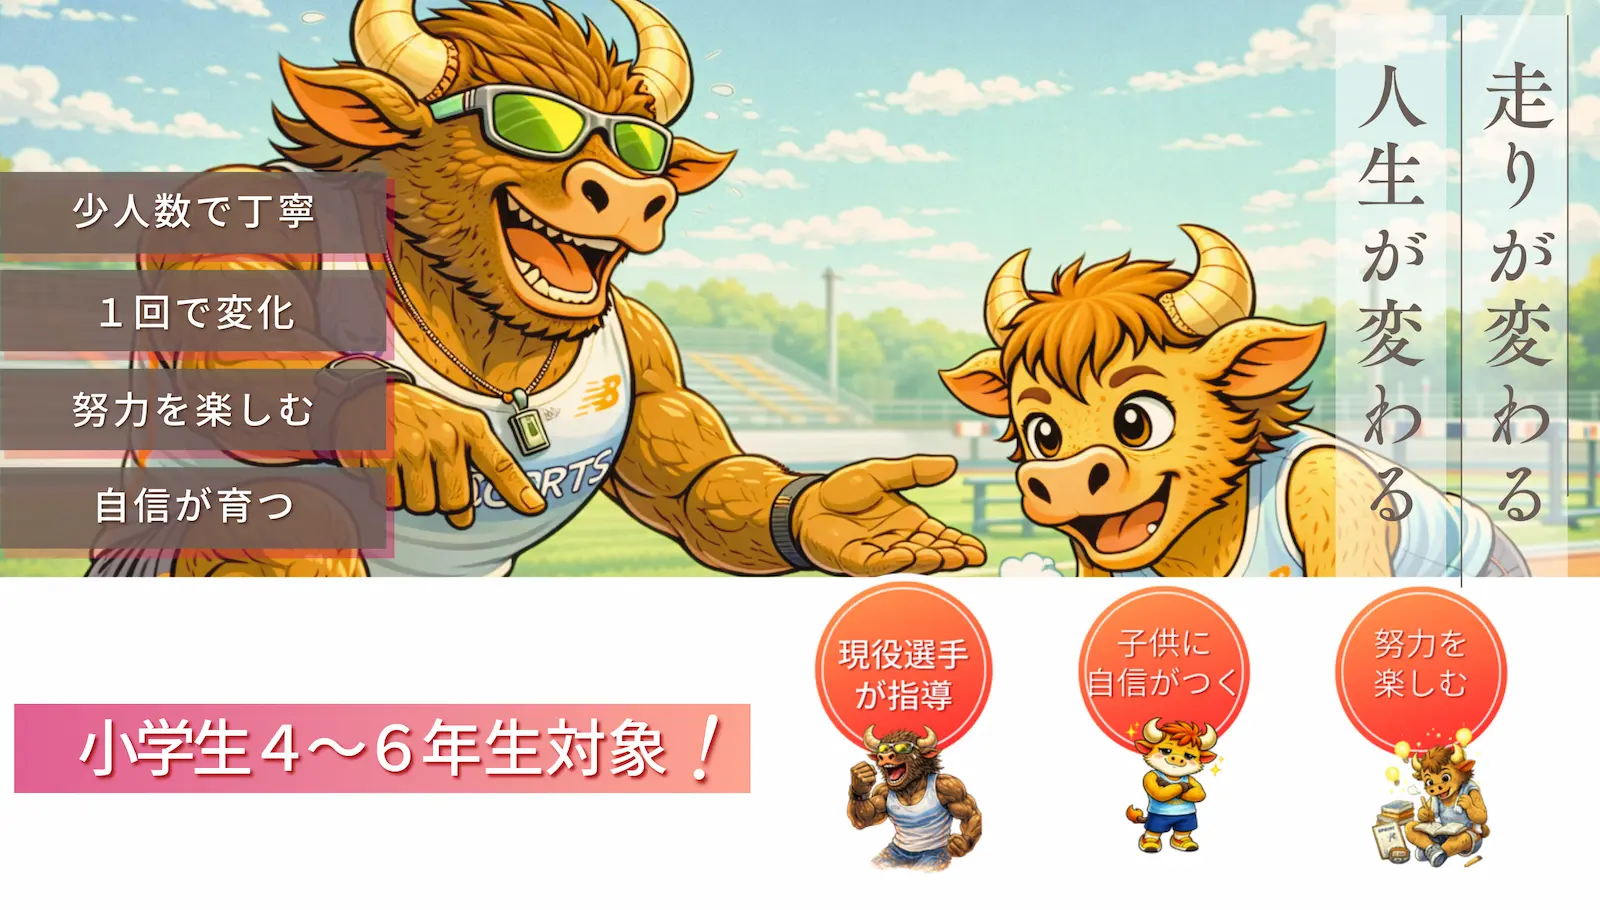
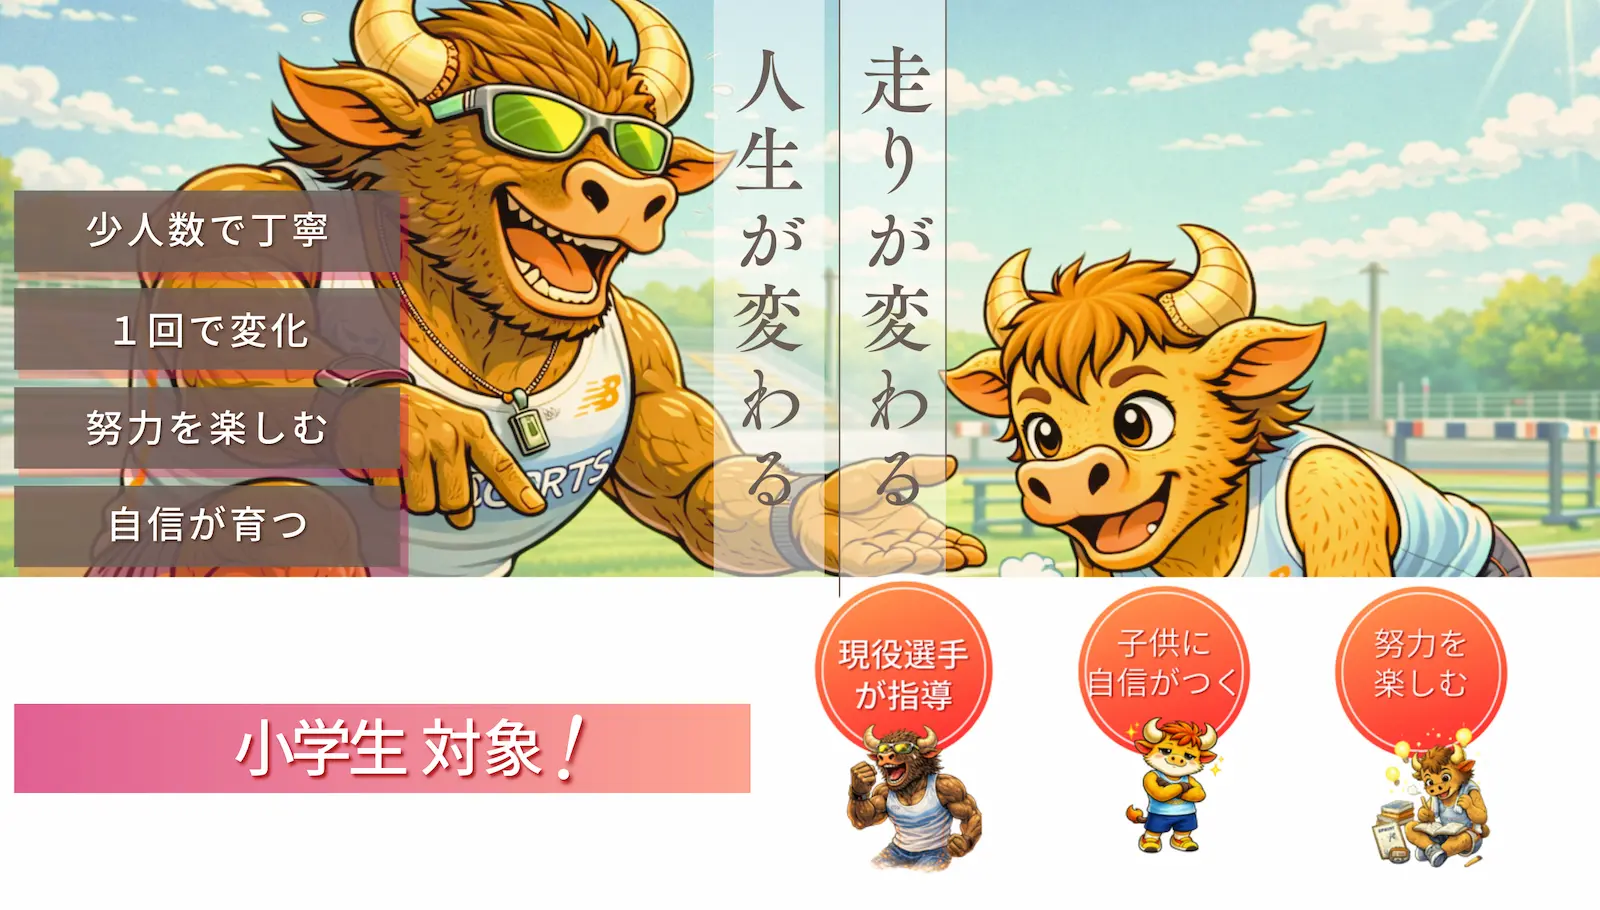
費用入力

diff --git a/2302/index.html b/2302/index.html
@@ -3,8 +3,8 @@
 <head>
   <meta charset="utf-8" />
   <meta name="viewport" content="width=device-width, initial-scale=1" />
-  <title>【2/23限定】小学生向けスプリント特化・単発陸上教室｜SiegSports</title>
-  <meta name="description" content="2月23日（祝）限定。元日本代表選手が多数在籍する社会人陸上チームSiegSportsが直接指導する小学生向け単発スプリント教室。定員10名、先着順。" />
+  <title>【3/25限定】小学生向けスプリント特化・単発陸上教室｜SiegSports</title>
+  <meta name="description" content="3月25日（水）限定。元日本代表選手が多数在籍する社会人陸上チームSiegSportsが直接指導する小学生向け単発スプリント教室。定員10名、先着順。" />
   <link rel="stylesheet" href="/2302/23day-style.css">
   
   <meta name="google-site-verification" content="tDmWG5vccQVcA6zoeox6R_8R96zfi1HmwjNaDQ4GcxY" />
@@ -47,7 +47,7 @@
       <div class="topbar__inner">
         <div class="brand brand--menu" id="brandMenuBtn">
           <div class="brand__badge" aria-hidden="true"></div>
-          <div>SiegSports｜2/23 単発陸上教室</div>
+          <div>SiegSports｜3/25 単発陸上教室</div>
         </div>
         <nav class="nav" aria-label="ページ内メニュー">
           <a href="#benefits">得られること</a>
@@ -77,7 +77,7 @@
       <!-- PC（例：768px以上） -->
       <source media="(min-width: 768px)" srcset="/2302/imge/pc1.webp">
       <!-- スマホ（デフォルト） -->
-      <img src="/2302/imge/top1.webp" alt="2/23単発陸上教室の告知" >
+      <img src="/2302/imge/top1.webp" alt="3/25単発陸上教室の告知" >
     </picture>
     
     <!-- <div class="kis_top">
@@ -93,7 +93,7 @@
     <div class="container">
       <div class="hero__grid">
         <div>
-          <div class="pill">【2月23日（祝）限定】小学生向け｜単発参加OK｜<b>参加費無料</b>｜定員10名</div>
+          <div class="pill">【3月25日（水）限定】小学生向け｜単発参加OK｜<b>参加費無料</b>｜定員15名</div>
           <h1>スプリントスクール<br />開講</h1>
           <p class="hero__lead">
             <b>元日本代表選手が多数在籍する社会人陸上チームSiegSports</b>が直接指導。<br />
@@ -106,7 +106,7 @@
             rel="noopener"
             onclick="gtag('event','apply_click',{
               event_label:'2302_lp'
-            });">2/23 単発陸上教室に申し込む</a>
+            });">3/25 単発陸上教室に申し込む</a>
             <a class="btn btn--ghost" href="#details">教室概要を見る</a>
           </div>
 
@@ -175,7 +175,7 @@
       <!-- PC（例：768px以上） -->
       <source media="(min-width: 768px)" srcset="/2302/imge/pc2.webp" />
       <!-- スマホ（デフォルト） -->
-      <img src="/2302/imge/top2.webp" alt="2/23単発陸上教室の告知"  />
+      <img src="/2302/imge/top2.webp" alt="3/25単発陸上教室の告知"  />
     </picture>
     
     
@@ -393,10 +393,18 @@
       <div class="card">
         <div class="card__pad">
           <ul class="list">
-            <li class="li"><span class="dot"></span><p><b>日時</b>：2026年2月23日（祝）13時〜14時</p></li>
-            <li class="li"><span class="dot"></span><p><b>場所</b>：枚方陸上競技場</p></li>
+            <li class="li"><span class="dot"></span><p><b>日時</b>：2026年3月25日（水）10時〜12時</p></li>
+            <li class="li"><span class="dot"></span><p><b>場所</b>：淀川河川公園島本地区</p></li>
+            <div class="map-wrap">
+              <iframe
+                src="https://www.google.com/maps/embed?pb=!1m18!1m12!1m3!1d3272.920185120859!2d135.6774558!3d34.8833505!2m3!1f0!2f0!3f0!3m2!1i1024!2i768!4f13.1!3m3!1m2!1s0x600104a7664caa5f%3A0x169da7e1690f607f!2z5reA5bed5rKz5bed5YWs5ZySIOWztuacrOWcsOWMug!5e0!3m2!1sja!2sjp!4v1771978793868!5m2!1sja!2sjp"
+                loading="lazy"
+                allowfullscreen
+                referrerpolicy="no-referrer-when-downgrade">
+              </iframe>
+            </div>
             <li class="li"><span class="dot"></span><p><b>対象</b>：小学生</p></li>
-            <li class="li"><span class="dot"></span><p><b>定員</b>：10名（少人数制）</p></li>
+            <li class="li"><span class="dot"></span><p><b>定員</b>：15名（少人数制）</p></li>
             <li class="li"><span class="dot"></span><p><b>費用</b>：無料</p></li>
             <li class="li"><span class="dot"></span><p><b>内容</b>：スタート／加速／フォーム基礎</p></li>
           </ul>
@@ -441,13 +449,13 @@
             </small>
           </p>
 
-          <div class="cta__label">【定員10名｜先着順】</div>
+          <div class="cta__label">【定員15名｜先着順】</div>
           <a class="btn btn--primary" href="https://docs.google.com/forms/d/e/1FAIpQLSf-THzgQ-nXgRNkoaX5KYZRtM5h8_Vrd43vrVwcTzgCXJmKTw/viewform?usp=dialog"
           target="_blank"
    rel="noopener"
    onclick="gtag('event','apply_click',{
      event_label:'2302_lp'
-   });">2/23 単発陸上教室に申し込む</a>
+   });">3/25 単発陸上教室に申し込む</a>
           
           <div class="cta__mini">
             <span>対象：小学生</span><span>｜</span><span>少人数制</span><span>｜</span><span>単発参加OK</span>

diff --git a/2302/23day-style.css b/2302/23day-style.css
@@ -669,3 +669,22 @@ body{
     gap: 6px;
   }
 }
+
+.map-title{
+  margin-top:40px;
+  margin-bottom:12px;
+  font-size:20px;
+  font-weight:800;
+}
+
+.map-wrap{
+  border-radius:16px;
+  overflow:hidden;
+  box-shadow: var(--shadow);
+}
+
+.map-wrap iframe{
+  width:100%;
+  height:350px;
+  border:0;
+}
